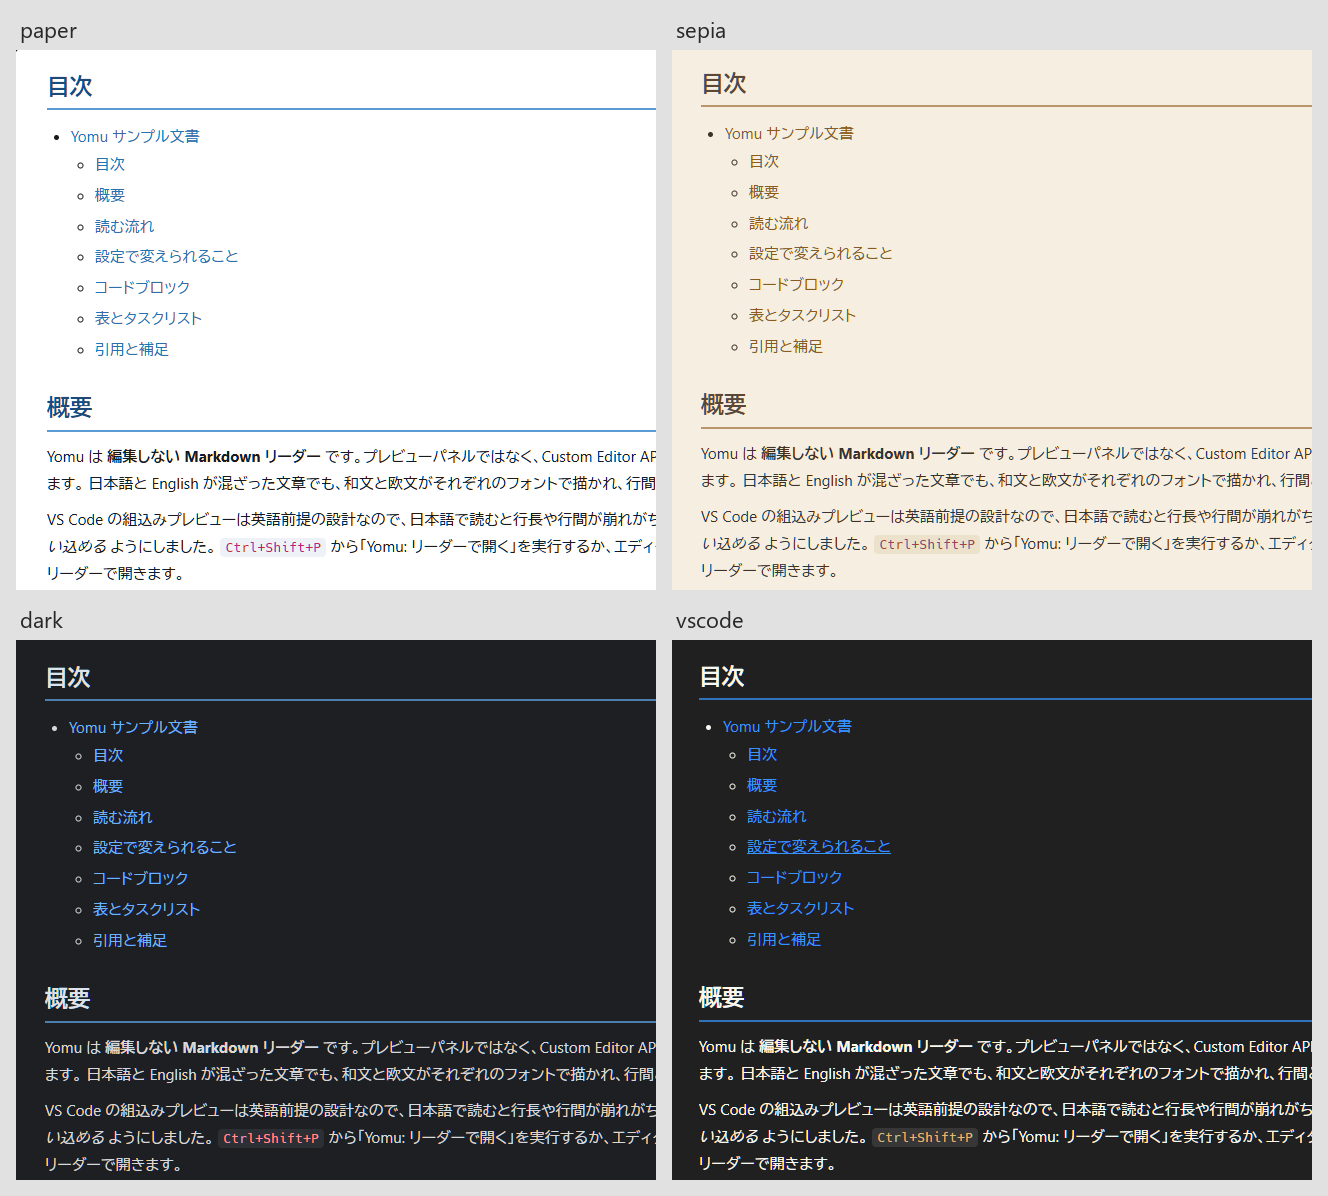
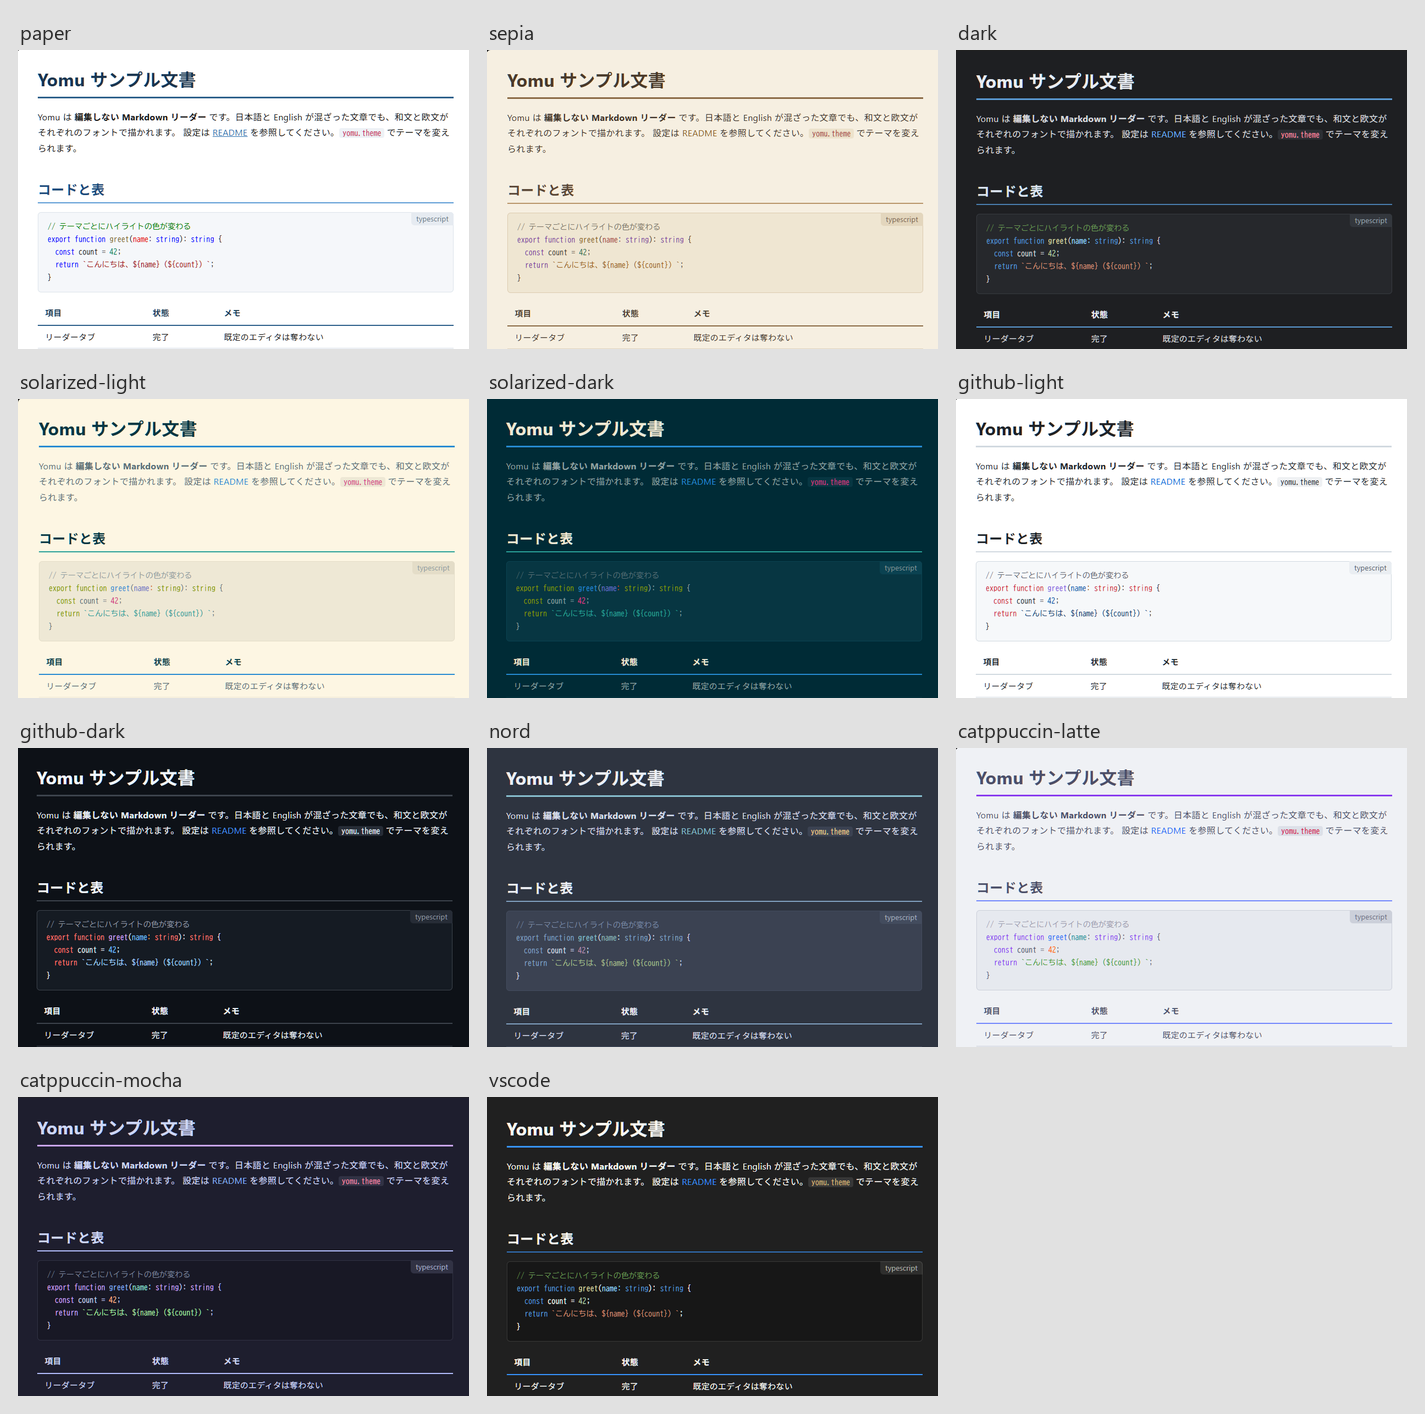
docs(readme): テーマ比較の画像を 11 テーマに更新

diff --git a/README.md b/README.md
@@ -64,7 +64,7 @@ All settings start with `yomu.` and apply to open reader tabs immediately.
 
 ### Themes
 
-![The paper, sepia, dark, and vscode themes](images/themes.png)
+![All 11 themes: paper, sepia, dark, Solarized, GitHub, Nord, Catppuccin, and vscode](images/themes.png)
 
 ### Bundled fonts
 
